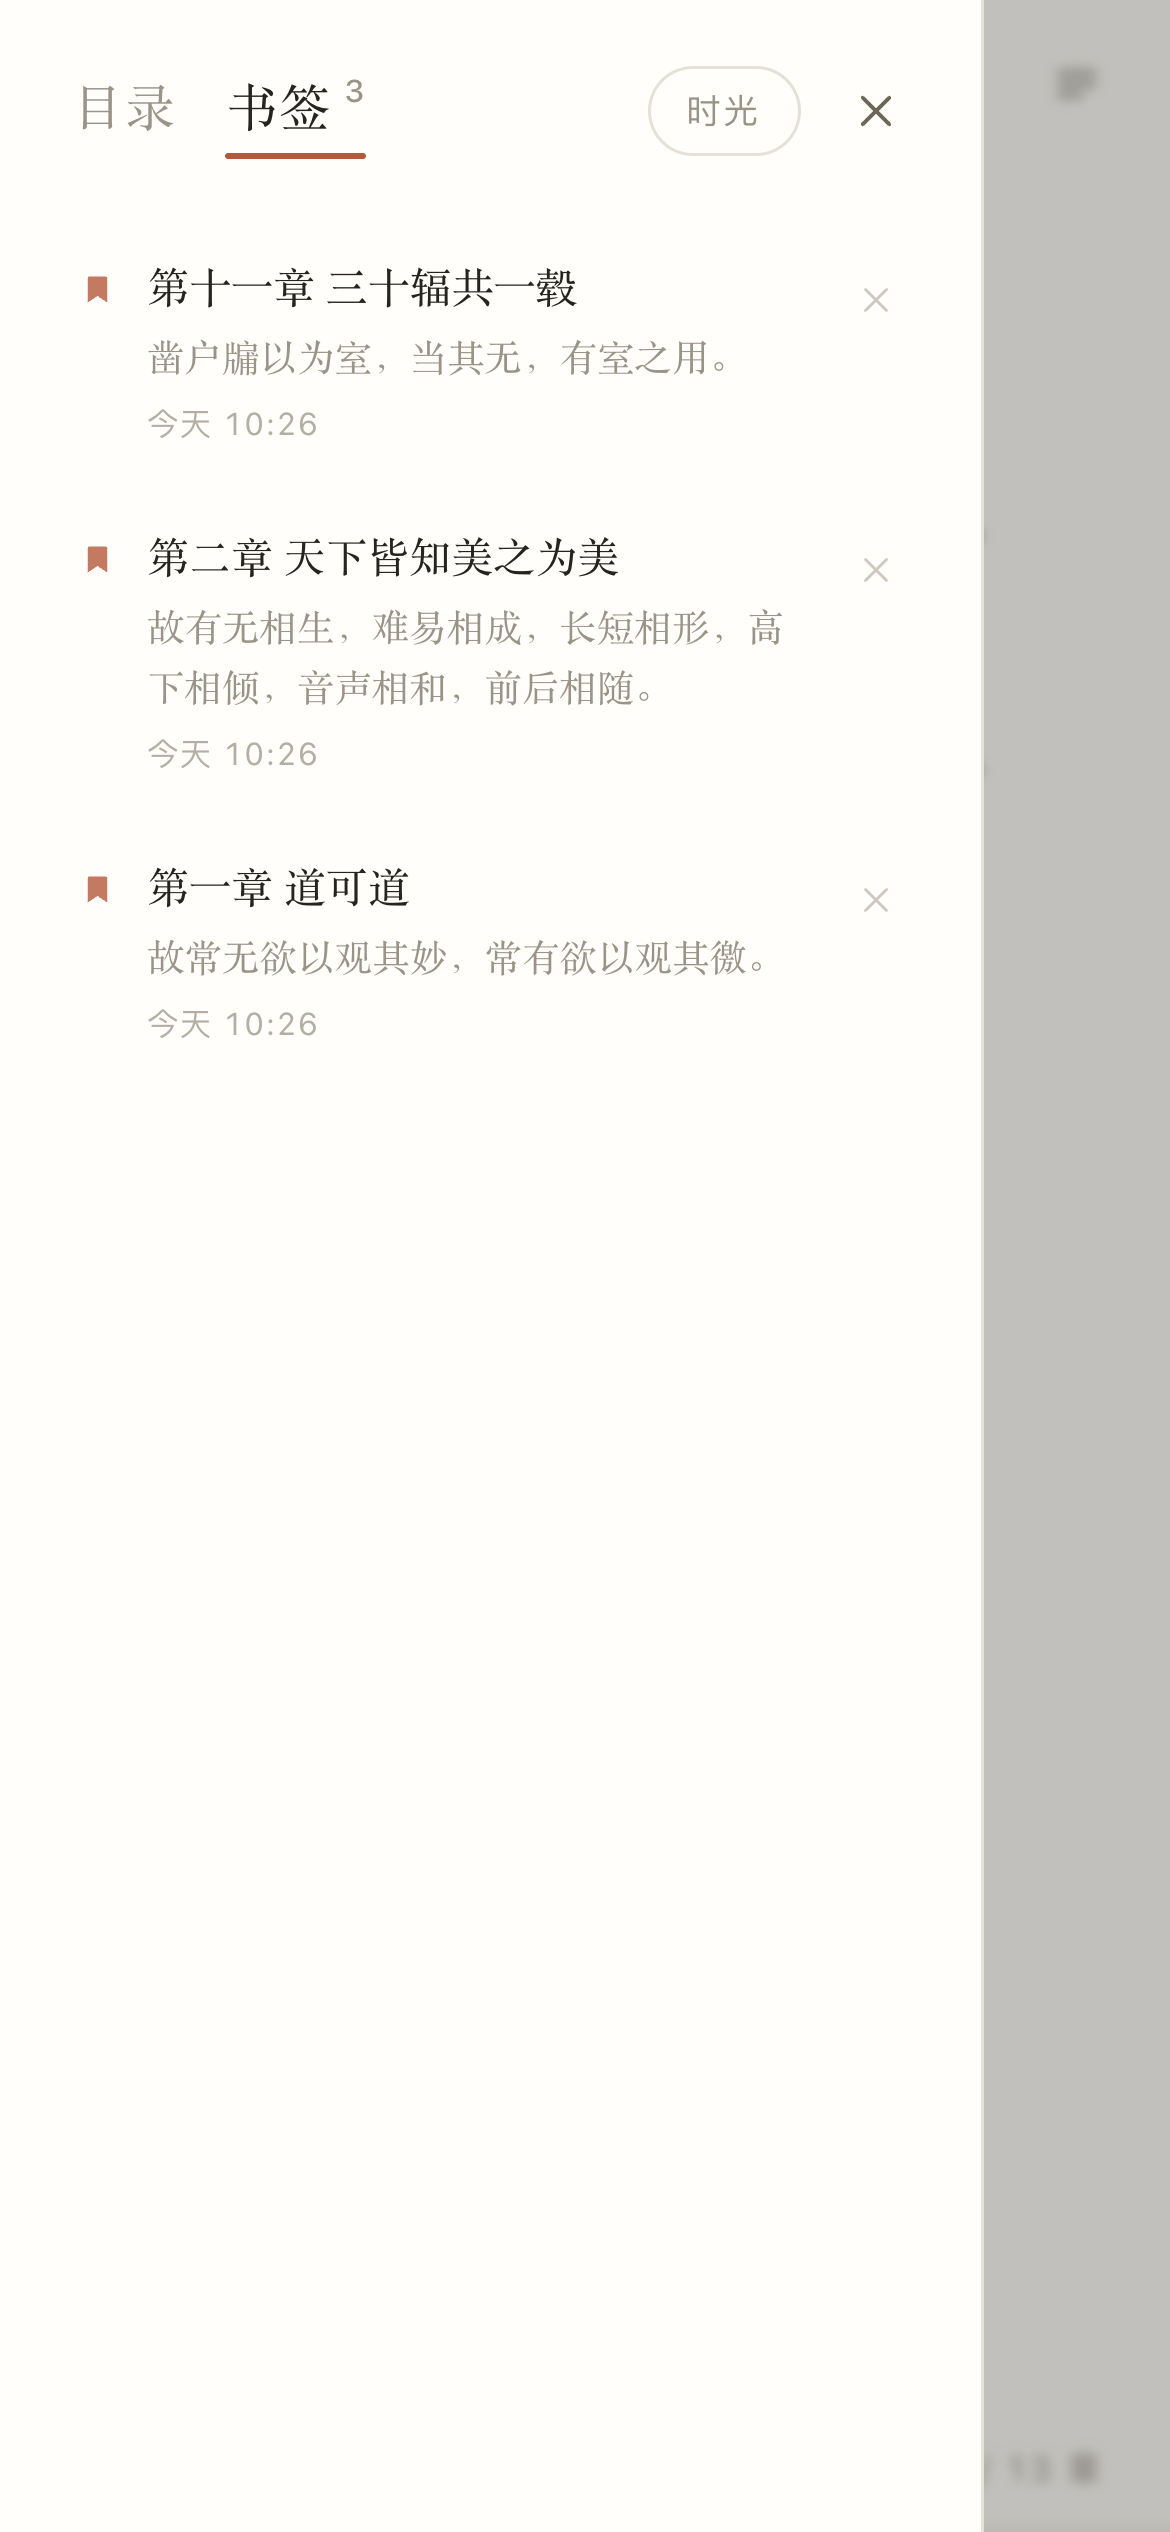
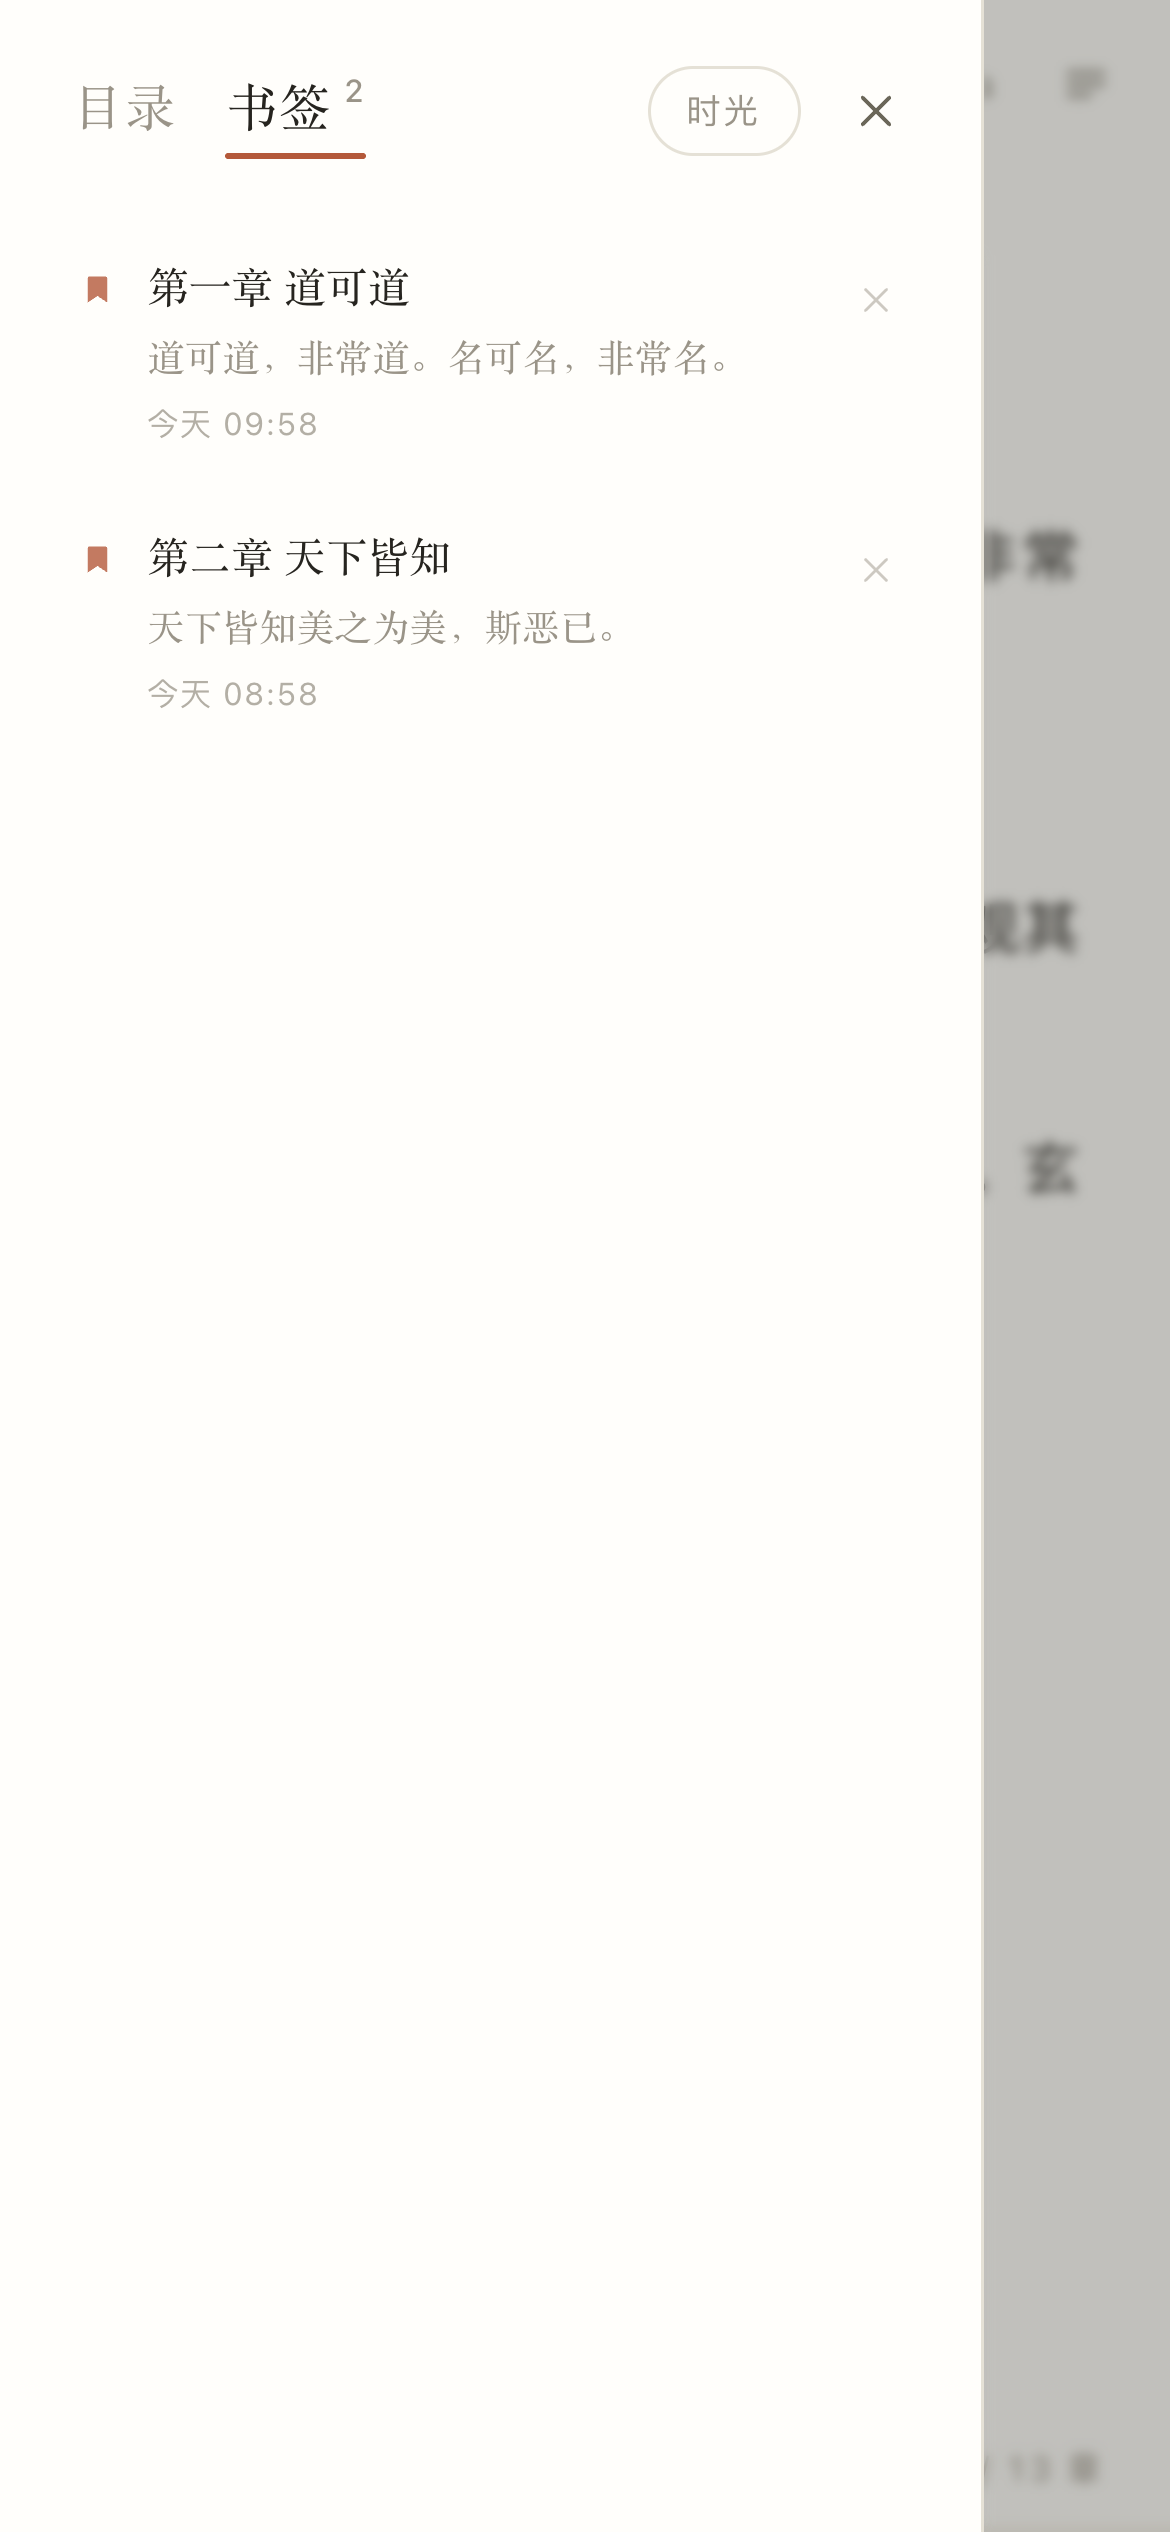
docs(preview): 重做全套截图（含纯黑 OLED、宋体正文），版本升 1.1
截图
- 全部按 1170×2532（390×844 @3x）重拍，内文统一为公版示例《道德经》节选
- 新增 oled.png（纯黑）与 serif.png（宋体正文）
- fonts.png 换成新版版式面板，可看到「翻页：滑动 / 翻页」与五主题

其他
- AndroidManifest versionName 1.1 / versionCode 2，build.sh VER 同步
- README：正文排版说明改为「系统宋体，缺失时回落 Noto Serif」，
  不再声称打包内置字体子集（app/web/fonts/ 里的 woff2 实际是黑体，
  挂到「宋」上会显示成无衬线，故不引用）

diff --git a/README.md b/README.md
@@ -16,7 +16,7 @@ Android 6.0+ 可直接安装，也可以直接在浏览器里打开网页版。
 - **导入** — 本地 `.txt` 与 `.epub`，全部留在本机，不上传
   - TXT：自动识别编码（UTF-8 / GBK / GB18030 / Big5 / UTF-16），按 `第X章` / `第X回` / `第X卷` / `序章` / `楔子` / `番外` / `Chapter N` 自动分章；导入时一次性净化正文（去 BOM、合并多余空行、去分隔线、去行首尾空白）
   - EPUB：自带 zip+DEFLATE 解析器（不依赖 `DecompressionStream`，老 WebView 也能用），目录优先取 `toc.ncx` / `nav.xhtml`，取不到再用正文首个标题
-- **正文排版** — 宋体栈（打包内置 Noto Serif SC 子集）、首行缩进 2em、两端对齐、17px / 行高 1.88
+- **正文排版** — 宋体栈（系统宋体，缺失时回落 Noto Serif / serif）、首行缩进 2em、两端对齐、17px / 行高 1.88
 - **两种阅读方式** — *滑动*（连续滚动）或 *翻页*（一屏一页），设置面板里随时换，位置不丢
 - **三分区点击** — 左 30% 上一页 / 右 30% 下一页 / 中间呼出工具栏；拖动和选中文字不算点击
 - **五主题** — 跟（跟随系统）/ 纸 / 米 / 夜 / 黑（OLED 纯黑），状态栏同步变色
@@ -111,9 +111,13 @@ Android 6.0+ 可直接安装，也可以直接在浏览器里打开网页版。
 |---|---|---|
 | ![toc](app/apk/preview/toc-time.png) | ![endnote](app/apk/preview/endnote.png) | ![stats](app/apk/preview/stats.png) |
 
-| 书签 | 字体设置 | 空书架 |
+| 书签 | 宋体正文 | 纯黑 OLED |
 |---|---|---|
-| ![bookmarks](app/apk/preview/bookmarks.png) | ![fonts](app/apk/preview/fonts.png) | ![empty](app/apk/preview/empty.png) |
+| ![bookmarks](app/apk/preview/bookmarks.png) | ![serif](app/apk/preview/serif.png) | ![oled](app/apk/preview/oled.png) |
+
+| 版式面板（翻页 / 五主题） | 空书架 |
+|---|---|
+| ![fonts](app/apk/preview/fonts.png) | ![empty](app/apk/preview/empty.png) |
 
 ---
 
